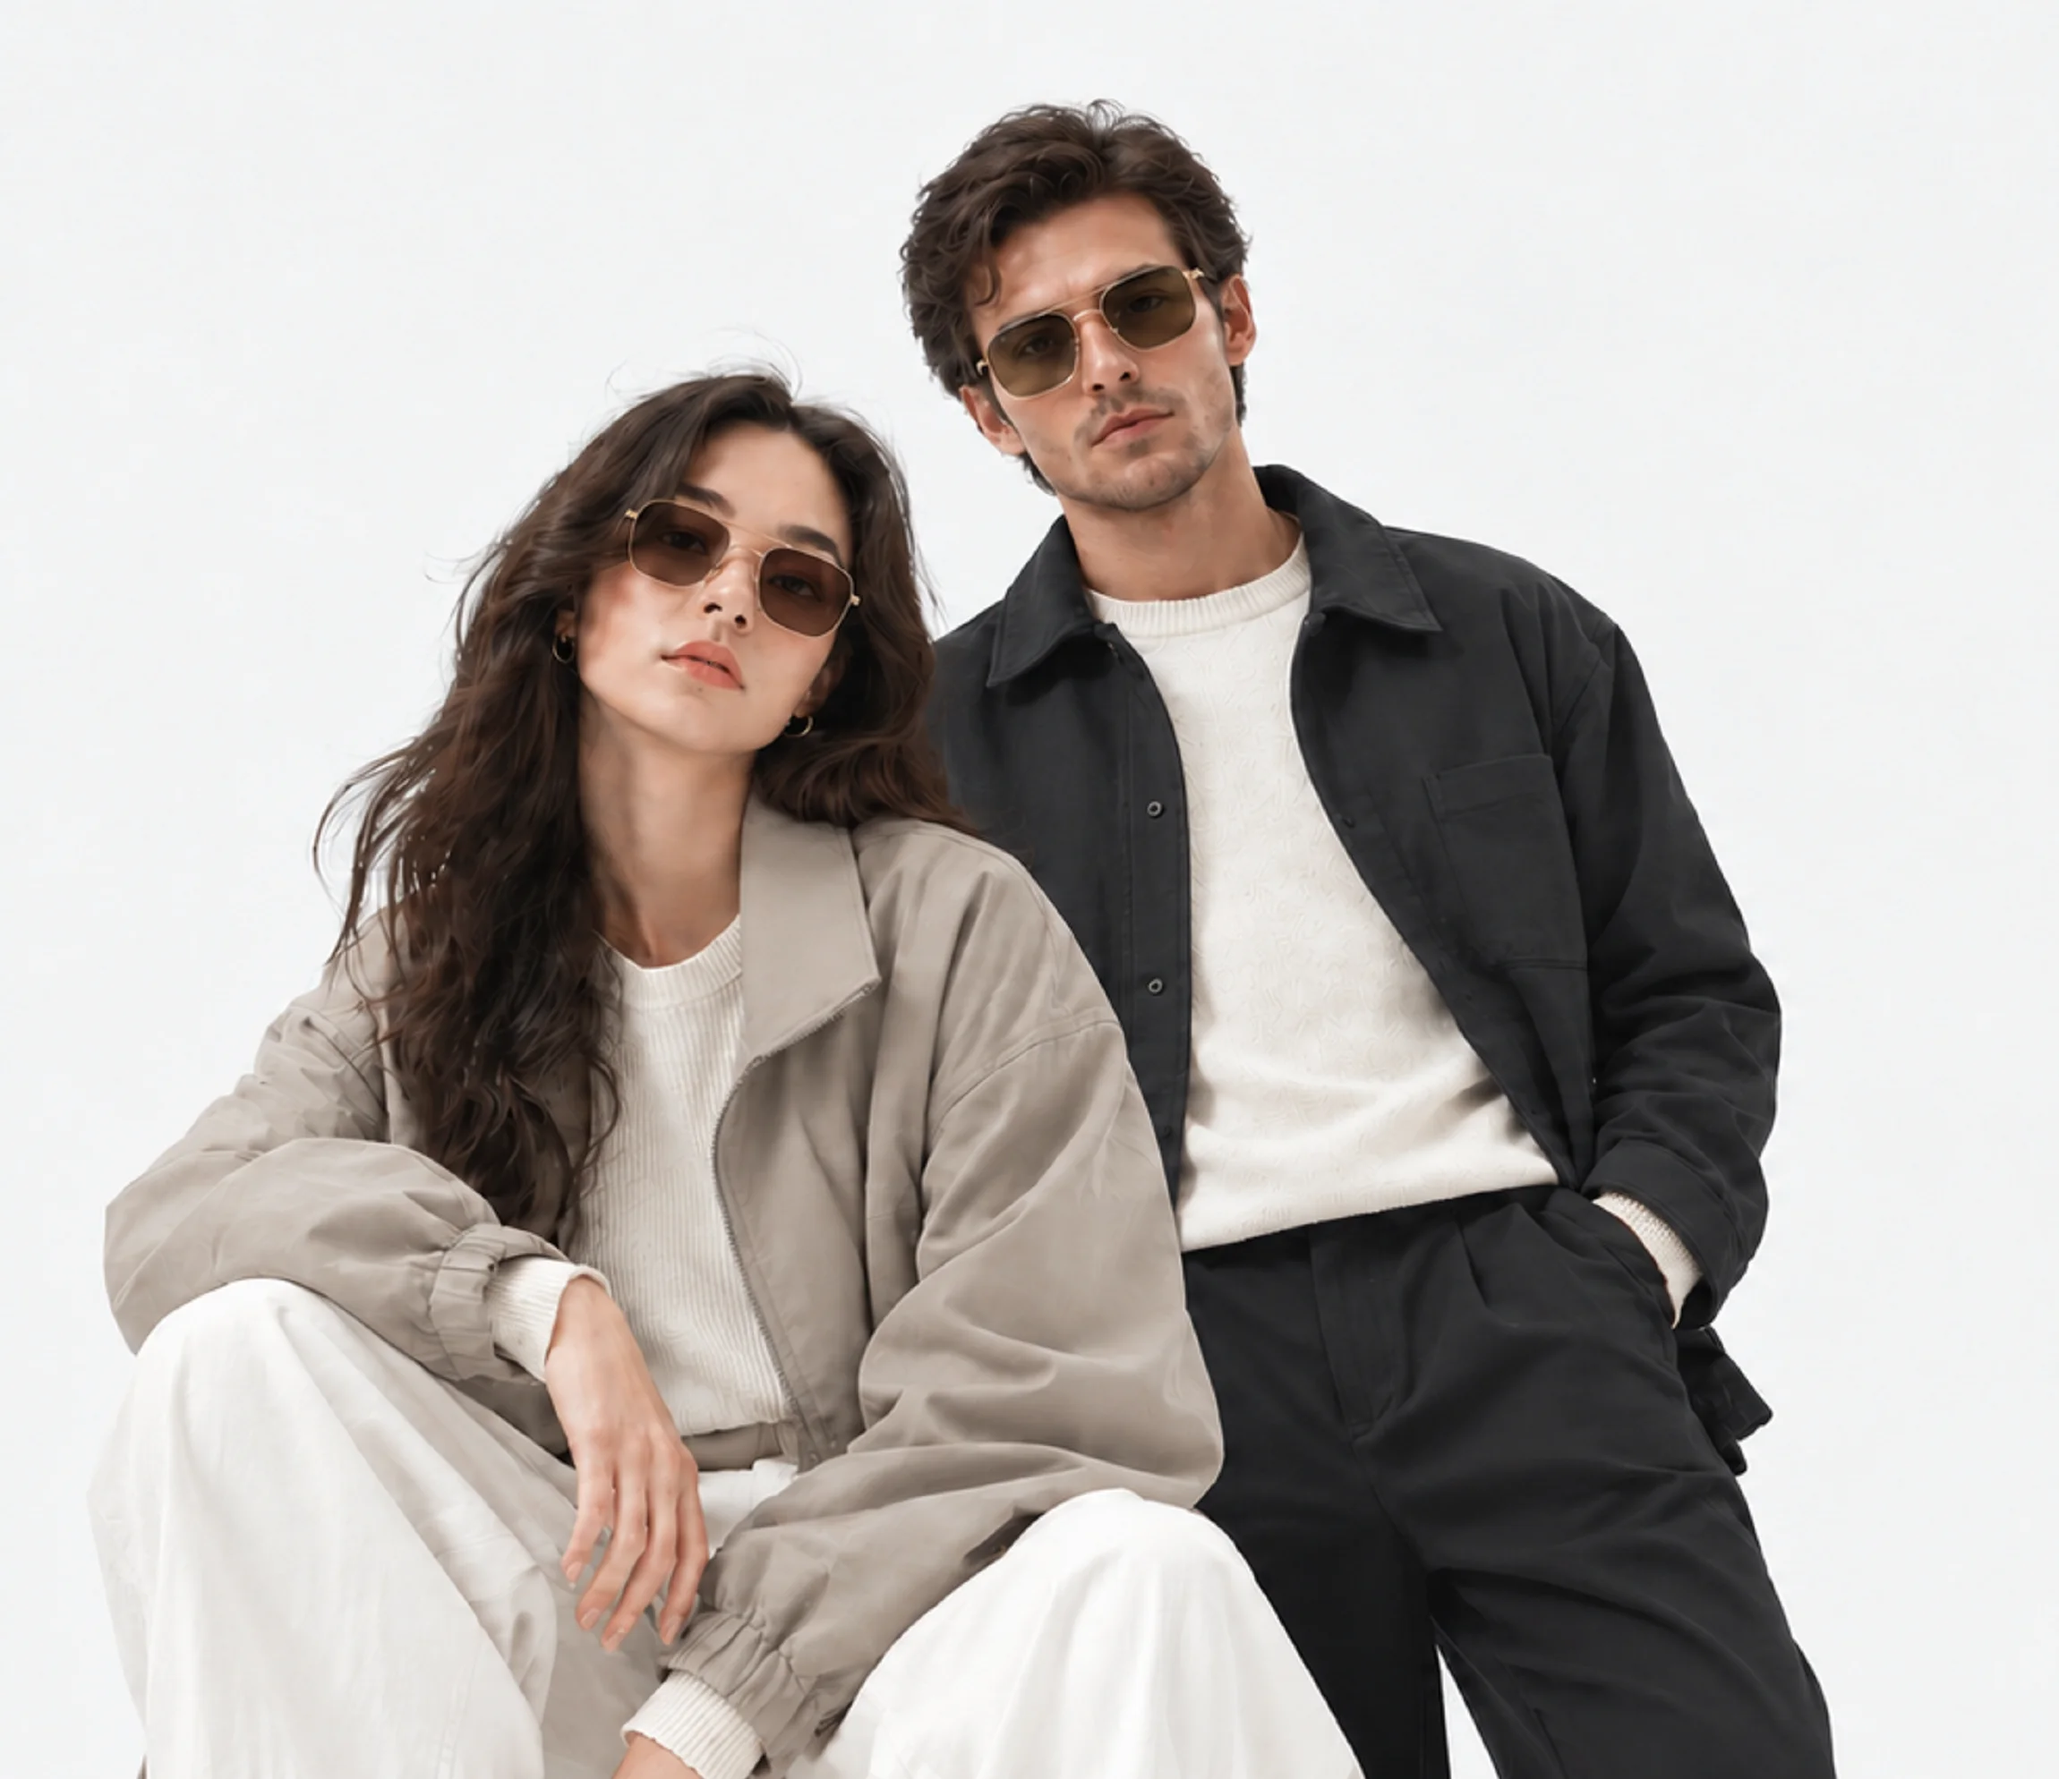
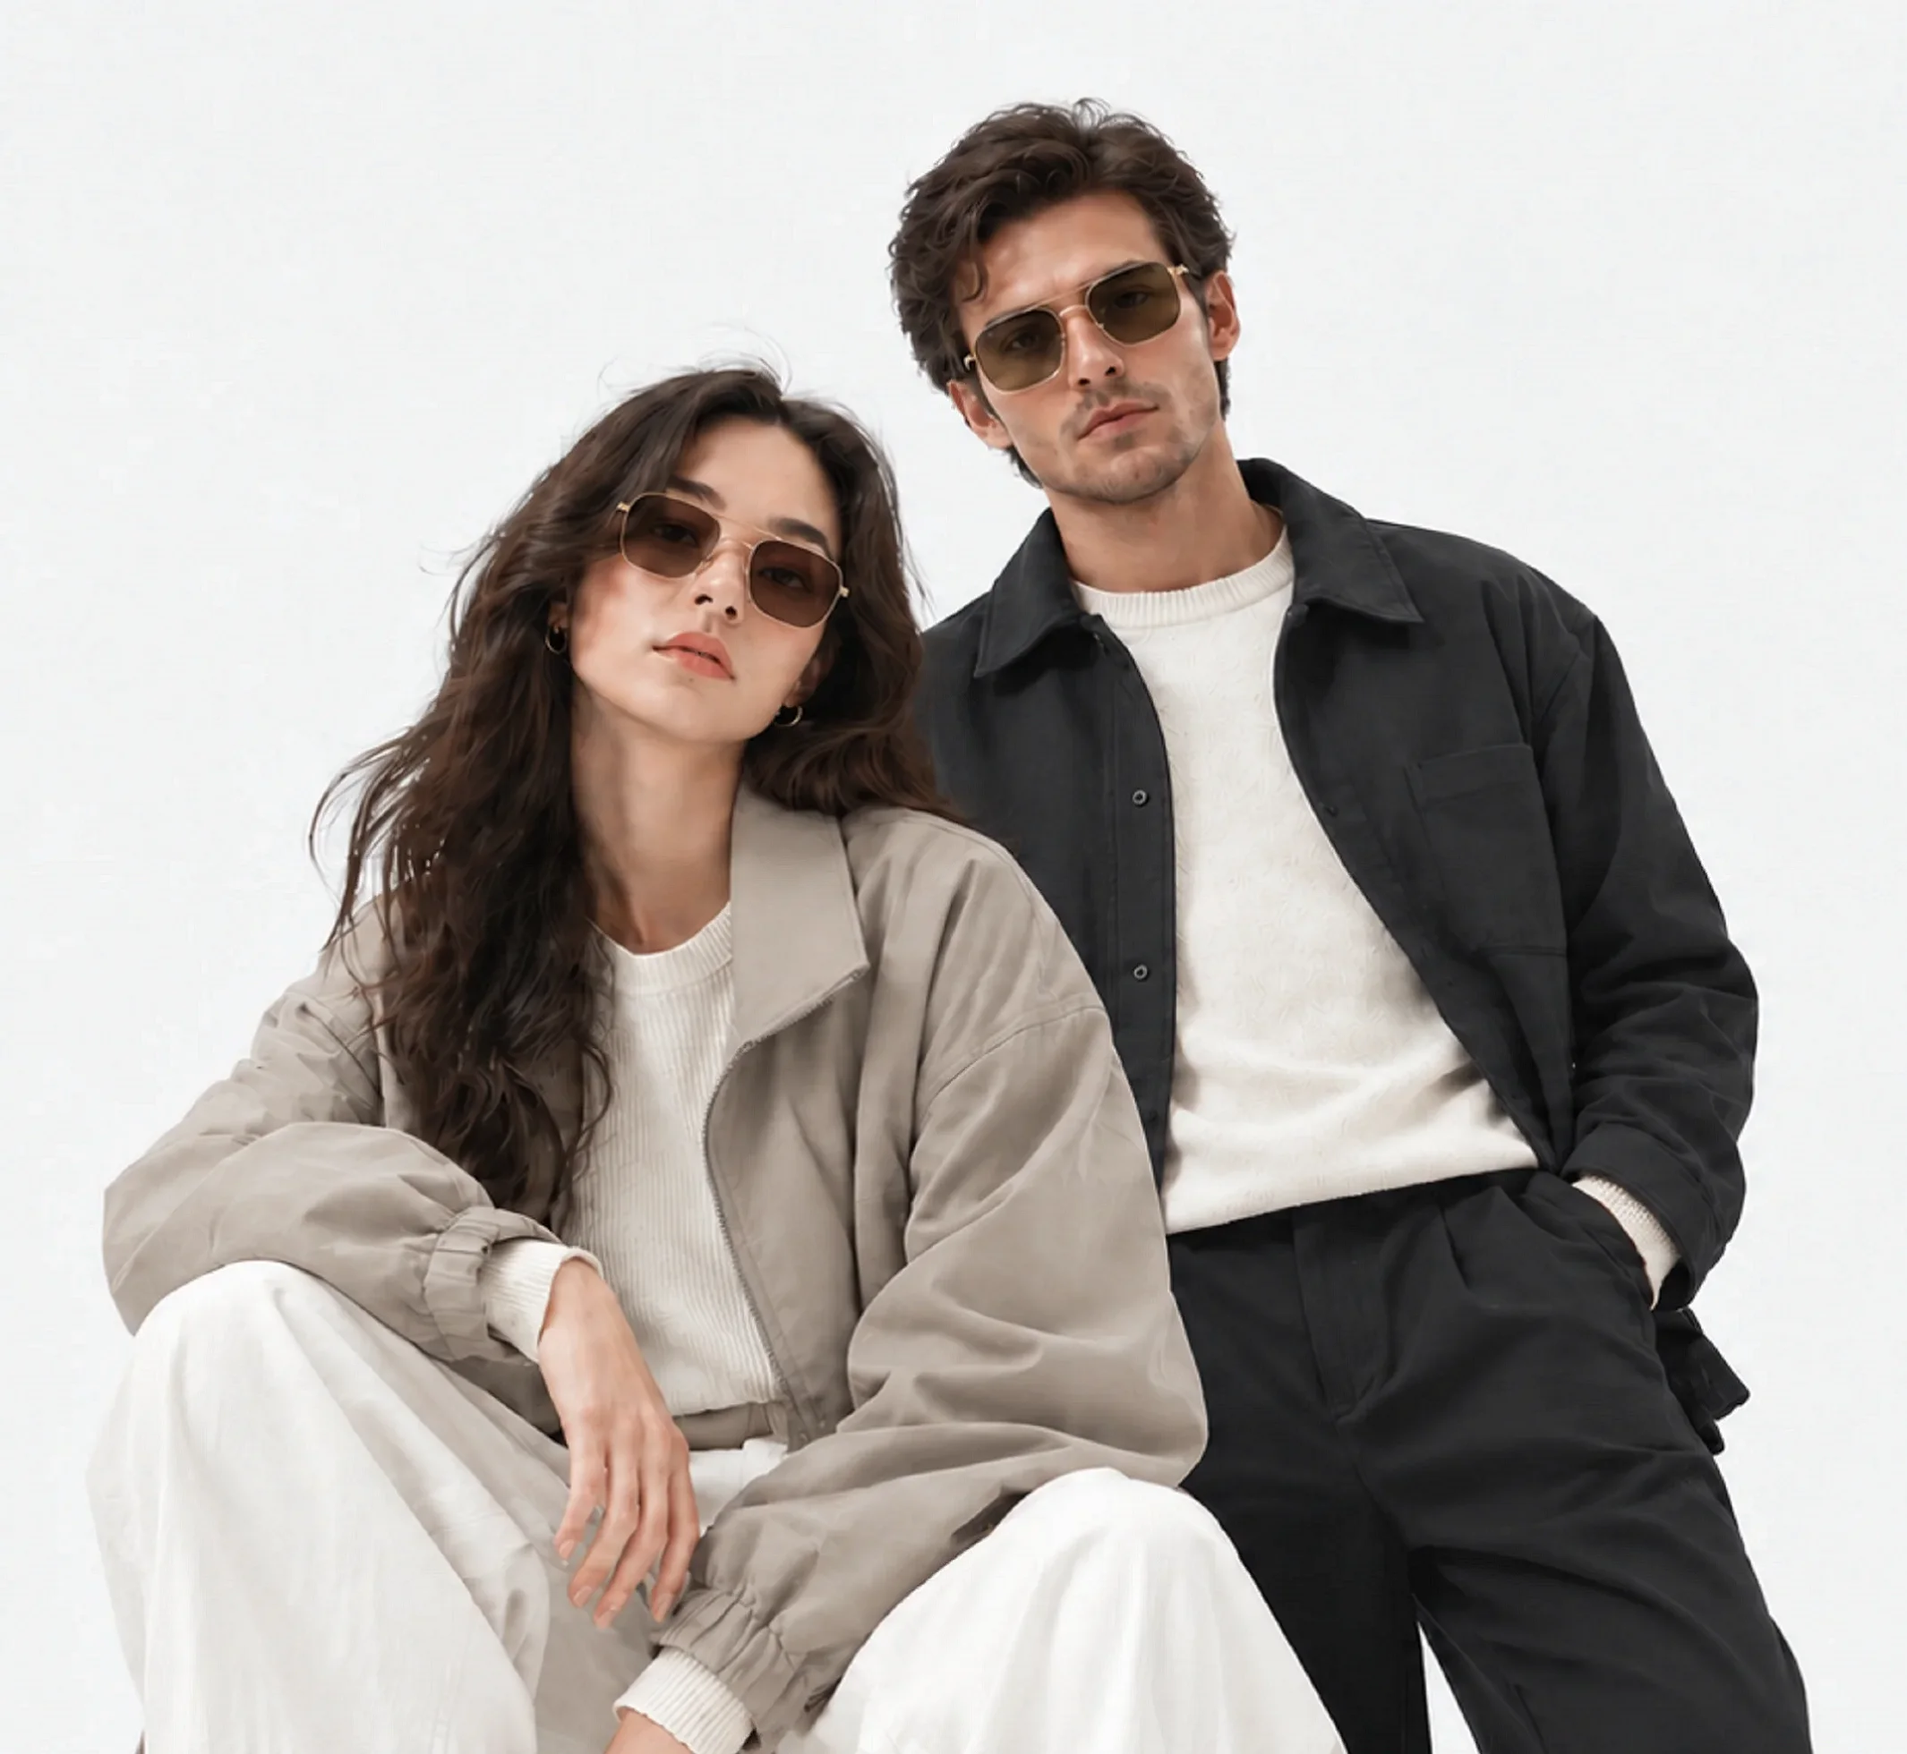
Polish specific UI for several sections

diff --git a/src/components/section/OfferNavbar.tsx b/src/components/section/OfferNavbar.tsx
@@ -23,9 +23,9 @@ export const OfferNavbar = ({ className }: OfferNavbarProps) => {
         className
       )}
     >
-      <div className="container mx-auto flex items-center px-4 py-2 sm:px-6 lg:px-10">
+      <div className="container mx-auto flex items-center px-4 py-0.5 sm:px-6 lg:px-10">
         {/* Left spacer on desktop  mirrors X button width to keep text truly centered */}
-        <div className="hidden shrink-0 lg:block lg:w-5" aria-hidden="true" />
+        <div className="w-5 shrink-0 lg:block" aria-hidden="true" />
 
         <div className="flex flex-1 flex-wrap items-center justify-center gap-x-1 gap-y-0">
           <p className="text-xs sm:text-sm">
@@ -39,13 +39,12 @@ export const OfferNavbar = ({ className }: OfferNavbarProps) => {
           </Link>
         </div>
 
-        {/* X button  desktop only; on mobile the banner is dismissible only by logging in */}
         <Button
           variant="ghost"
           size="icon"
           aria-label="Dismiss offer"
           onClick={dismiss}
-          className="hidden shrink-0 cursor-pointer text-primary-foreground hover:bg-primary/80 hover:text-primary-foreground lg:flex"
+          className="shrink-0 cursor-pointer text-primary-foreground hover:bg-primary/80 hover:text-primary-foreground lg:flex"
         >
           <X strokeWidth={3} className="size-4" />
         </Button>

diff --git a/src/components/section/Navbar.tsx b/src/components/section/Navbar.tsx
@@ -25,7 +25,7 @@ interface NavbarProps {
 
 // Collapses the inline search bar to an icon when the visual viewport is too
 // narrow to fit everything  fires on both window resize and browser zoom.
-const SEARCH_COLLAPSE_WIDTH = 1150
+const SEARCH_COLLAPSE_WIDTH = 1260
 
 const useCollapseSearch = () => {
   const [collapsed, setCollapsed] = useState(
@@ -35,17 +35,13 @@ const useCollapseSearch = () => {
   )
 
   useEffect(() => {
+    const vv = window.visualViewport
     const check = () => {
-      setCollapsed(
-        (window.visualViewport?.width ?? window.innerWidth) <
-          SEARCH_COLLAPSE_WIDTH
-      )
+      setCollapsed((vv?.width ?? window.innerWidth) < SEARCH_COLLAPSE_WIDTH)
     }
-    window.visualViewport?.addEventListener("resize", check)
-    window.addEventListener("resize", check)
+    vv?.addEventListener("resize", check)
     return () => {
-      window.visualViewport?.removeEventListener("resize", check)
-      window.removeEventListener("resize", check)
+      vv?.removeEventListener("resize", check)
     }
   }, [])
 

diff --git a/src/components/section/ProductSection.tsx b/src/components/section/ProductSection.tsx
@@ -166,12 +166,12 @@ export const ProductSection = () => {
             <Separator />
 
             {/* CTA row  quantity stepper + Add to Cart + Wishlist */}
-            <div className="flex gap-3">
+            <div className="flex flex-wrap gap-3">
               <QuantityStepper quantity={quantity} changeQty={changeQty} />
               <Button
                 variant="default"
                 size="xl"
-                className="flex-1 rounded-full text-base"
+                className="rounded-full text-base"
                 aria-label="Add to cart"
                 onClick={() => {
                   requireAuth(() => {
@@ -217,6 +217,7 @@ export const ProductSection = () => {
                     wishlisted ? "fill-destructive stroke-destructive" : ""
                   )}
                 />
+                Wishlist
               </Button>
             </div>
           </div>

diff --git a/src/components/section/Hero.tsx b/src/components/section/Hero.tsx
@@ -9,7 +9,7 @@ const Hero = () => {
   return (
     <>
       <div className="hero bg-secondary pt-10 pb-0 lg:pt-20">
-        <div className="container mx-auto gap-10 px-4 lg:px-10">
+        <div className="container mx-auto gap-10 px-4 lg:min-h-[350px] lg:px-10">
           {/* Mobile: stacked column  text then image. Desktop: side-by-side row */}
           <div className="flex w-full flex-col lg:flex-row lg:justify-start">
             <div className="lg:basis-6/14"></div>

diff --git a/src/styles/components.css b/src/styles/components.css
@@ -11,7 +11,7 @@
     background-image: url(../assets/images/general/hero-lg.webp);
     background-repeat: no-repeat;
     background-size: auto clamp(300px, 40vw, 450px);
-    background-position: 20% 20%;
+    background-position: 20% 40%;
   }
 }
 
@@ -44,6 +44,6 @@
 
 @media (min-width: 2500px) {
   .hero {
-    background-position: 42% 20%;
+    background-position: 43.5% 20%;
   }
 }
